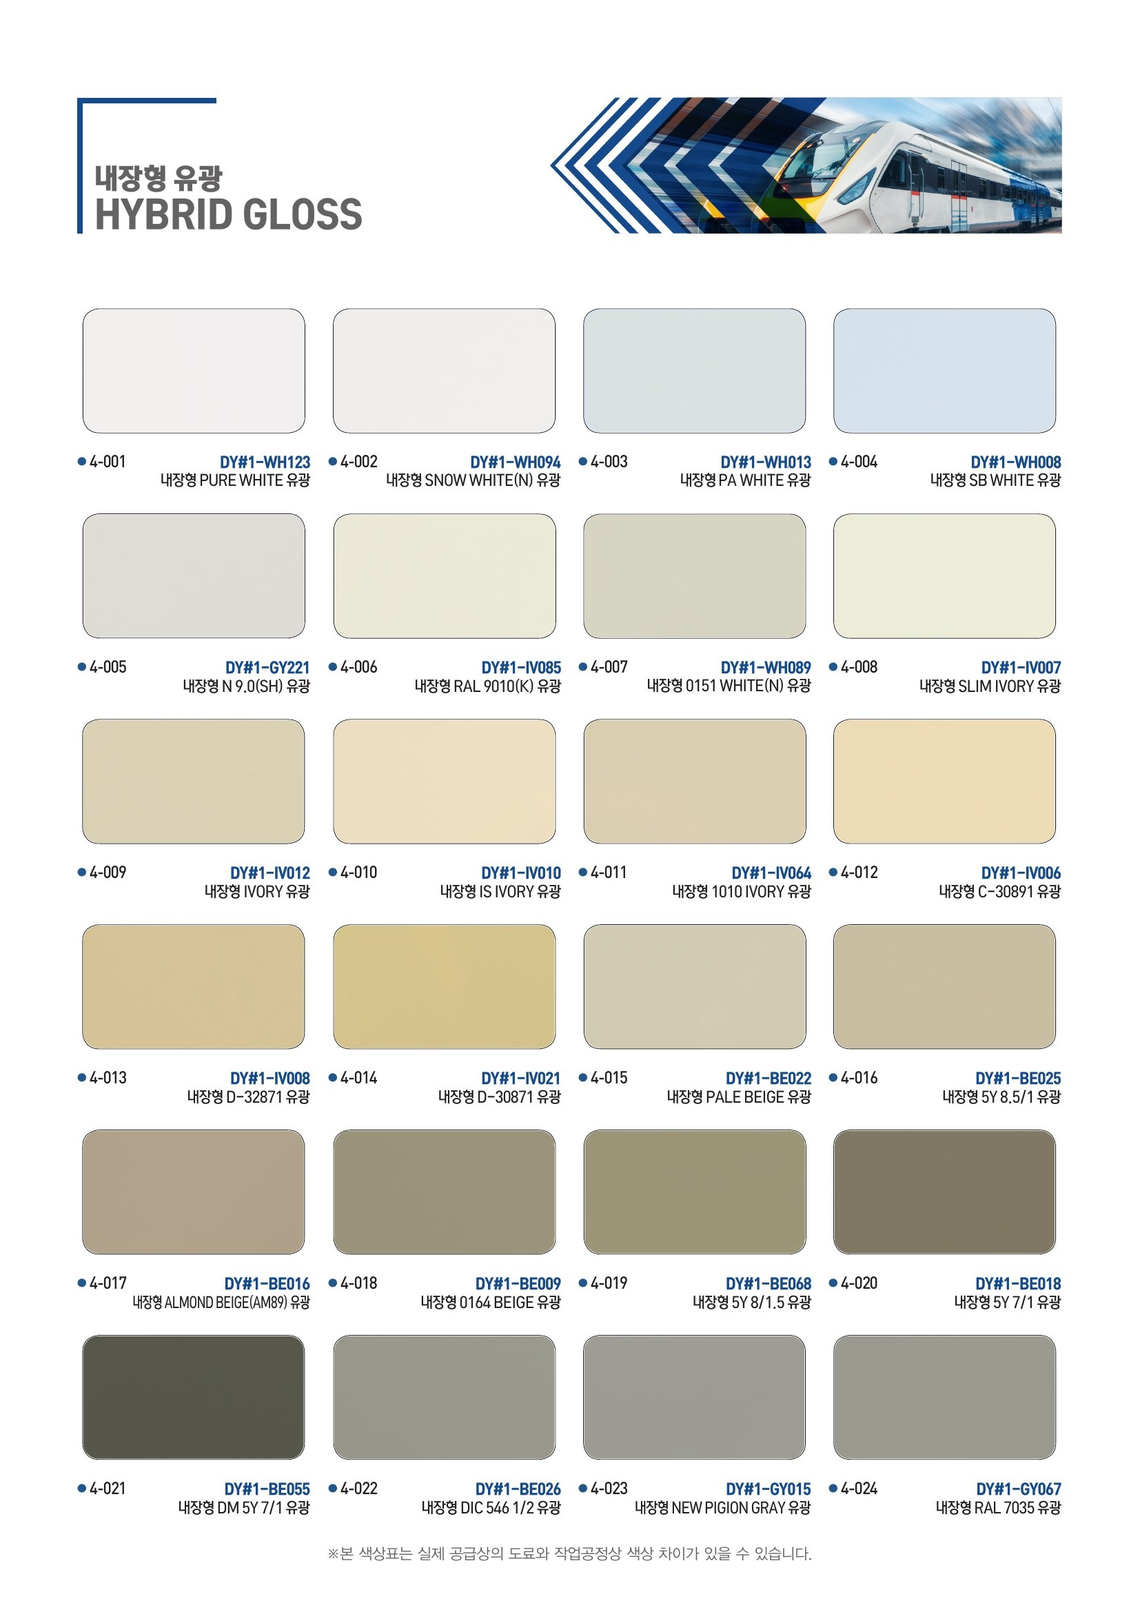
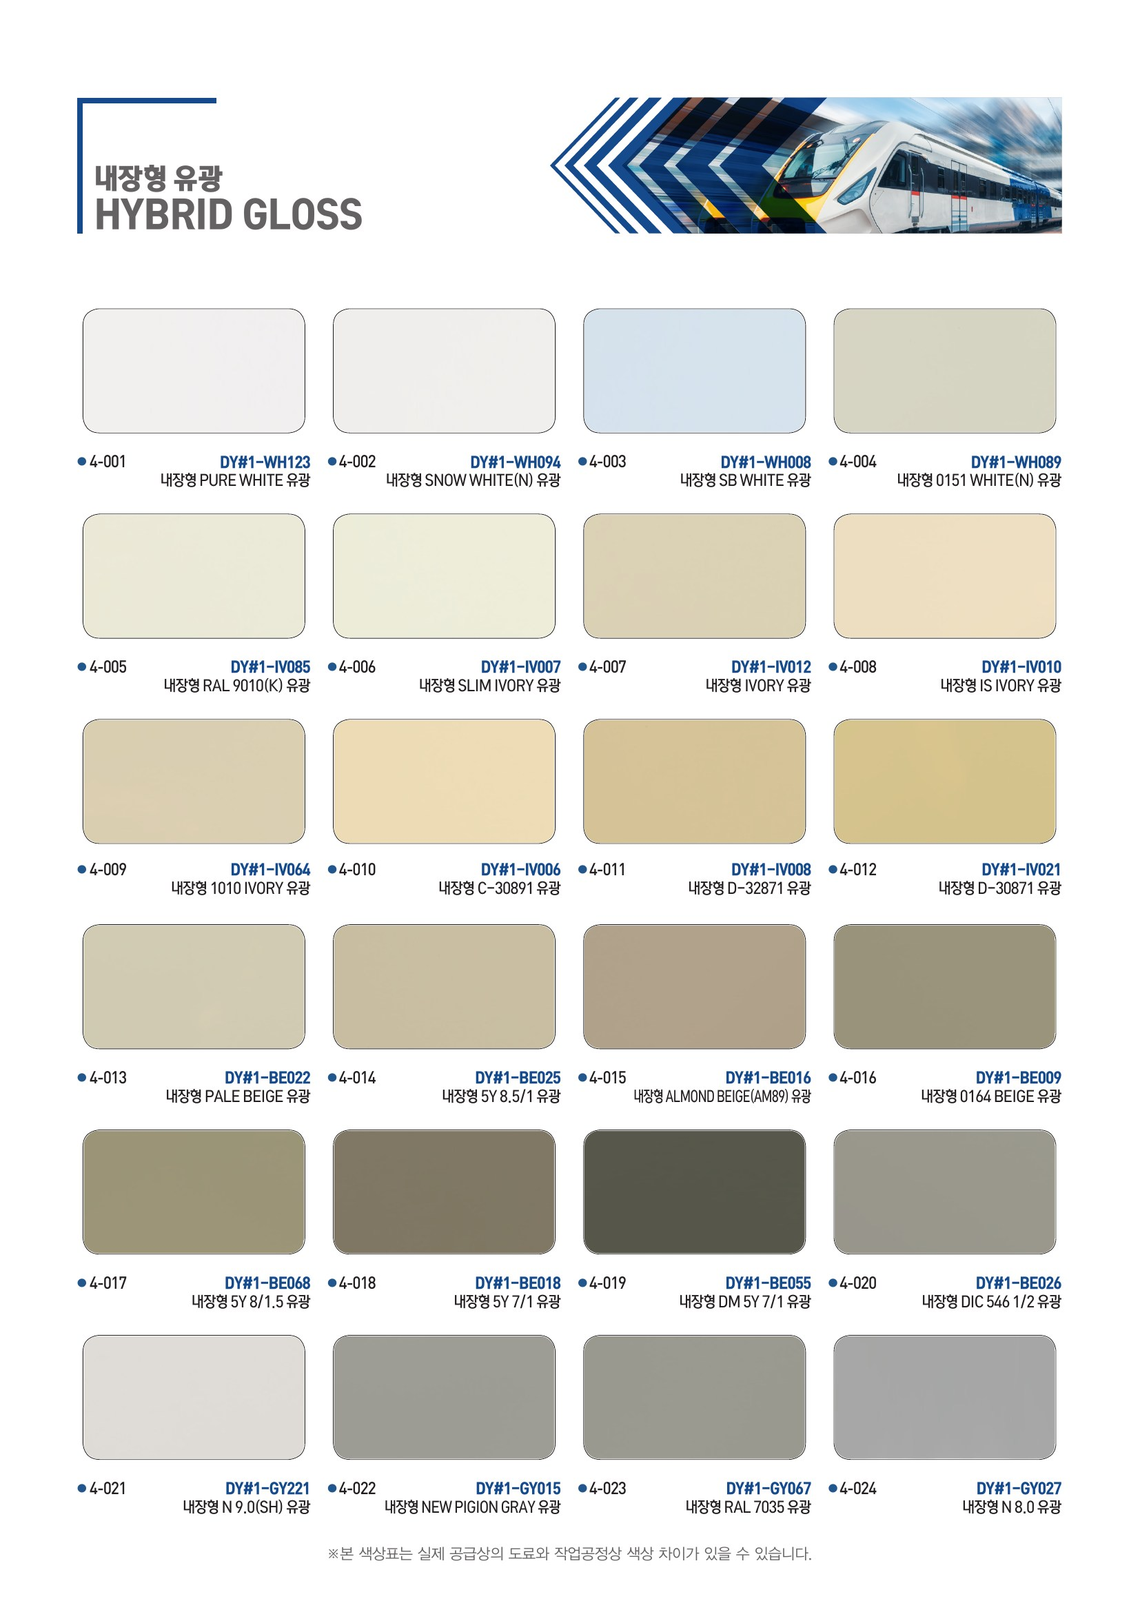
Restore the 183-color 색상표 data and color book pages
Revert the switch to the 170-color ver.3 layout (06d61f1, 5927d75): the
color data, color book pages 3-10 and the added WH013/GY007 swatches go
back to the 183-color version. The favicon change is kept.

diff --git a/js/colors.js b/js/colors.js
@@ -1,174 +1,187 @@
 window.COLOR_CHART = [
   [1, "DY#1-WH123", "내장형 PURE WHITE 유광", "#f2f0ef"],
   [2, "DY#1-WH094", "내장형 SNOW WHITE(N) 유광", "#f0efec"],
-  [3, "DY#1-WH013", "내장형 PA WHITE 유광", "#dae2e2"],
-  [4, "DY#1-WH008", "내장형 SB WHITE 유광", "#d6e3ed"],
-  [5, "DY#1-GY221", "내장형 N 9.0(SH) 유광", "#dedbd6"],
-  [6, "DY#1-IV085", "내장형 RAL 9010(K) 유광", "#eae9d7"],
-  [7, "DY#1-WH089", "내장형 0151 WHITE(N) 유광", "#d5d3c2"],
-  [8, "DY#1-IV007", "내장형 SLIM IVORY 유광", "#ededda"],
-  [9, "DY#1-IV012", "내장형 IVORY 유광", "#dad0b4"],
-  [10, "DY#1-IV010", "내장형 IS IVORY 유광", "#eedfc2"],
-  [11, "DY#1-IV064", "내장형 1010 IVORY 유광", "#dbcfb2"],
-  [12, "DY#1-IV006", "내장형 C-30891 유광", "#eddcb6"],
-  [13, "DY#1-IV008", "내장형 D-32871 유광", "#d5c398"],
-  [14, "DY#1-IV021", "내장형 D-30871 유광", "#d5c28c"],
-  [15, "DY#1-BE022", "내장형 PALE BEIGE 유광", "#d1cbb3"],
-  [16, "DY#1-BE025", "내장형 5Y 8.5/1 유광", "#c9bea2"],
-  [17, "DY#1-BE016", "내장형 ALMOND BEIGE(AM89) 유광", "#b1a28b"],
-  [18, "DY#1-BE009", "내장형 0164 BEIGE 유광", "#9b947c"],
-  [19, "DY#1-BE068", "내장형 5Y 8/1.5 유광", "#9c9577"],
-  [20, "DY#1-BE018", "내장형 5Y 7/1 유광", "#807864"],
-  [21, "DY#1-BE055", "내장형 DM 5Y 7/1 유광", "#56564b"],
-  [22, "DY#1-BE026", "내장형 DIC 546 1/2 유광", "#9a988d"],
-  [23, "DY#1-GY015", "내장형 NEW PIGION GRAY 유광", "#9d9c94"],
-  [24, "DY#1-GY067", "내장형 RAL 7035 유광", "#9a9a91"],
-  [25, "DY#1-GY027", "내장형 N 8.0 유광", "#a6a7a6"],
-  [26, "DY#1-GY026", "내장형 N 7.0 유광", "#85878b"],
-  [27, "DY#1-GY001", "내장형 C-80680 유광", "#6d7074"],
-  [28, "DY#1-GY089", "내장형 N 6.0 유광", "#7c7d7c"],
-  [29, "DY#1-GY031", "내장형 N 6.5 유광", "#7e8084"],
-  [30, "DY#1-GY069", "내장형 N 4.0 유광", "#4b545c"],
-  [31, "DY#1-GY070", "내장형 N 2.0 유광", "#3c434a"],
-  [32, "DY#1-GY033", "내장형 SEPIA GRAY 유광", "#32353a"],
-  [33, "DY#1-GY039", "내장형 HD GRAY 유광", "#586161"],
-  [34, "DY#1-GY007", "내장형 MO GRAY 유광", "#5c6159"],
-  [35, "DY#1-GY029", "내장형 7.5BG 6/1.5 유광", "#6c7c7b"],
-  [36, "DY#1-GY055", "내장형 MK GRAY 유광", "#5a7174"],
-  [37, "DY#1-BR005", "내장형 BROWN 유광", "#130302"],
-  [38, "DY#1-GN007", "내장형 2.5G 6/3 유광", "#4d7b5d"],
-  [39, "DY#1-GN008", "내장형 E-39684 유광", "#4a8e47"],
-  [40, "DY#1-GN010", "내장형 H22 GREEN 유광", "#00712c"],
-  [41, "DY#1-GN017", "내장형 F/GREEN 유광", "#004f22"],
-  [42, "DY#1-GN002", "내장형 KJ GREEN 유광", "#003715"],
-  [43, "DY#1-BL011", "내장형 L/BLUE 유광", "#0394c7"],
-  [44, "DY#1-BL012", "내장형 D-54506 유광", "#006fa1"],
-  [45, "DY#1-BL013", "내장형 SEA BLUE 유광", "#005a93"],
-  [46, "DY#1-BL001", "내장형 DY BLUE 유광", "#005c95"],
-  [47, "DY#1-BL007", "내장형 CT BLUE 유광", "#003381"],
-  [48, "DY#1-BL003", "내장형 KW BLUE 유광", "#01346d"],
-  [49, "DY#1-BL015", "내장형 H1051 BLUE 유광", "#001544"],
-  [50, "DY#1-BL014", "내장형 NEW BLUE 유광", "#091437"],
-  [51, "DY#1-PK001", "내장형 WT PINK 유광", "#ffd2ef"],
-  [52, "DY#1-YL006", "내장형 WT YELLOW 유광", "#f4c34c"],
-  [53, "DY#1-YL001", "내장형 PA 3758 유광", "#ce8500"],
-  [54, "DY#1-YL002", "내장형 LT YELLOW 유광", "#ca8f5c"],
-  [55, "DY#1-OR001", "내장형 SAKIYA ORANGE 유광", "#d45f44"],
-  [56, "DY#1-OR003", "내장형 IH ORANGE 유광", "#dd5a52"],
-  [57, "DY#1-RD004", "내장형 SH RED 유광", "#9f0e23"],
-  [58, "DY#1-RD001", "내장형 DY RED 유광", "#880014"],
-  [59, "DY#1-WH085", "내장형 9903 WHITE(N) 반광", "#f2f2ef"],
-  [60, "DY#1-WH058", "내장형 N 9.5 반광", "#fefaf2"],
-  [61, "DY#1-WH086", "내장형 IK WHITE(N) 반광", "#e1e2dc"],
+  [3, "DY#1-WH008", "내장형 SB WHITE 유광", "#d6e3ed"],
+  [4, "DY#1-WH089", "내장형 0151 WHITE(N) 유광", "#d5d3c2"],
+  [5, "DY#1-IV085", "내장형 RAL 9010(K) 유광", "#eae9d7"],
+  [6, "DY#1-IV007", "내장형 SLIM IVORY 유광", "#ededda"],
+  [7, "DY#1-IV012", "내장형 IVORY 유광", "#dad0b4"],
+  [8, "DY#1-IV010", "내장형 IS IVORY 유광", "#eedfc2"],
+  [9, "DY#1-IV064", "내장형 1010 IVORY 유광", "#dbcfb2"],
+  [10, "DY#1-IV006", "내장형 C-30891 유광", "#eddcb6"],
+  [11, "DY#1-IV008", "내장형 D-32871 유광", "#d5c398"],
+  [12, "DY#1-IV021", "내장형 D-30871 유광", "#d5c28c"],
+  [13, "DY#1-BE022", "내장형 PALE BEIGE 유광", "#d1cbb3"],
+  [14, "DY#1-BE025", "내장형 5Y 8.5/1 유광", "#c9bea2"],
+  [15, "DY#1-BE016", "내장형 ALMOND BEIGE(AM89) 유광", "#b1a28b"],
+  [16, "DY#1-BE009", "내장형 0164 BEIGE 유광", "#9b947c"],
+  [17, "DY#1-BE068", "내장형 5Y 8/1.5 유광", "#9c9577"],
+  [18, "DY#1-BE018", "내장형 5Y 7/1 유광", "#807864"],
+  [19, "DY#1-BE055", "내장형 DM 5Y 7/1 유광", "#56564b"],
+  [20, "DY#1-BE026", "내장형 DIC 546 1/2 유광", "#9a988d"],
+  [21, "DY#1-GY221", "내장형 N 9.0(SH) 유광", "#dedbd6"],
+  [22, "DY#1-GY015", "내장형 NEW PIGION GRAY 유광", "#9d9c94"],
+  [23, "DY#1-GY067", "내장형 RAL 7035 유광", "#9a9a91"],
+  [24, "DY#1-GY027", "내장형 N 8.0 유광", "#a6a7a6"],
+  [25, "DY#1-GY026", "내장형 N 7.0 유광", "#85878b"],
+  [26, "DY#1-GY001", "내장형 C-80680 유광", "#6d7074"],
+  [27, "DY#1-GY089", "내장형 N 6.0 유광", "#7c7d7c"],
+  [28, "DY#1-GY031", "내장형 N 6.5 유광", "#7e8084"],
+  [29, "DY#1-GY069", "내장형 N 4.0 유광", "#4b545c"],
+  [30, "DY#1-GY070", "내장형 N 2.0 유광", "#3c434a"],
+  [31, "DY#1-GY033", "내장형 SEPIA GRAY 유광", "#32353a"],
+  [32, "DY#1-GY039", "내장형 HD GRAY 유광", "#586161"],
+  [33, "DY#1-GY029", "내장형 7.5BG 6/1.5 유광", "#6c7c7b"],
+  [34, "DY#1-GY055", "내장형 MK GRAY 유광", "#5a7174"],
+  [35, "DY#1-BR005", "내장형 BROWN 유광", "#130302"],
+  [36, "DY#1-GN007", "내장형 2.5G 6/3 유광", "#4d7b5d"],
+  [37, "DY#1-GN008", "내장형 E-39684 유광", "#4a8e47"],
+  [38, "DY#1-GN010", "내장형 H-22 GREEN 유광", "#00712c"],
+  [39, "DY#1-GN017", "내장형 F/GREEN 유광", "#004f22"],
+  [40, "DY#1-GN002", "내장형 KJ GREEN 유광", "#003715"],
+  [41, "DY#1-BL011", "내장형 L/BLUE 유광", "#0394c7"],
+  [42, "DY#1-BL012", "내장형 D-54506 유광", "#006fa1"],
+  [43, "DY#1-BL013", "내장형 SEA BLUE 유광", "#005a93"],
+  [44, "DY#1-BL001", "내장형 DY BLUE 유광", "#005c95"],
+  [45, "DY#1-BL007", "내장형 CT BLUE 유광", "#003381"],
+  [46, "DY#1-BL003", "내장형 KW BLUE 유광", "#01346d"],
+  [47, "DY#1-BL015", "내장형 H1051 BLUE 유광", "#001544"],
+  [48, "DY#1-BL014", "내장형 NEW BLUE 유광", "#091437"],
+  [49, "DY#1-PK001", "내장형 WT PINK 유광", "#ffd2ef"],
+  [50, "DY#1-YL006", "내장형 WT YELLOW 유광", "#f4c34c"],
+  [51, "DY#1-YL001", "내장형 PA 3758 유광", "#ce8500"],
+  [52, "DY#1-YL002", "내장형 LT YELLOW 유광", "#ca8f5c"],
+  [53, "DY#1-OR001", "내장형 SAKIYA ORANGE 유광", "#d45f44"],
+  [54, "DY#1-OR003", "내장형 IH ORANGE 유광", "#dd5a52"],
+  [55, "DY#1-RD004", "내장형 SH RED 유광", "#9f0e23"],
+  [56, "DY#1-RD001", "내장형 DY RED 유광", "#880014"],
+  [57, "DY#1-WH085", "내장형 9903 WHITE(N) 반광", "#f2f2ef"],
+  [58, "DY#1-WH058", "내장형 N 9.5 반광", "#fefaf2"],
+  [59, "DY#1-WH086", "내장형 IK WHITE(N) 반광", "#e1e2dc"],
+  [60, "DY#1-WH003", "내장형 EK WHITE 반광", "#e9e5dc"],
+  [61, "DY#1-WH106", "내장형 C705A WHITE 반광", "#cdcac2"],
   [62, "DY#1-WH090", "내장형 80940(N) 무광", "#e2e1da"],
   [63, "DY#1-IV051", "내장형 RAL 9010 반광", "#f2eedd"],
-  [64, "DY#1-WH003", "내장형 EK WHITE 반광", "#e9e5dc"],
-  [65, "DY#1-GY011", "내장형 N 9.0 반광", "#dad8d1"],
-  [66, "DY#1-WH106", "내장형 C705A WHITE 반광", "#cdcac2"],
-  [67, "DY#1-IV011", "내장형 083 IVORY 반광", "#f6eede"],
-  [68, "DY#1-IV078", "내장형 IVORY 반광", "#eee2c8"],
-  [69, "DY#1-IV009", "내장형 D-32871 반광", "#dfd0a9"],
-  [70, "DY#1-BE023", "내장형 PALE BEIGE 반광", "#ccc2a1"],
-  [71, "DY#1-IV002", "내장형 C-30891 반광", "#f8e2cb"],
-  [72, "DY#1-IV068", "내장형 1010 IVORY 반광", "#e6d0b2"],
-  [73, "DY#1-IV005", "내장형 PA3873 반광", "#d1be95"],
-  [74, "DY#1-IV003", "내장형 PN IVORY 반광", "#aaa189"],
-  [75, "DY#1-BE050", "내장형 DIC 546 1/2 반광", "#d9d4c7"],
-  [76, "DY#1-GY032", "내장형 RAL 9002 반광", "#cac7bc"],
-  [77, "DY#1-BE117", "내장형 L/BEIGE 반광", "#b3aea5"],
-  [78, "DY#1-BE015", "내장형 D-80830 반광", "#b8b2ac"],
-  [79, "DY#1-BE019", "내장형 2.5Y 9/2 반광", "#f3dbb5"],
-  [80, "DY#1-BE021", "내장형 2.5Y 8/2 반광", "#c0ad88"],
-  [81, "DY#1-BE012", "내장형 D-34770 반광", "#b2a692"],
-  [82, "DY#1-BE046", "내장형 5D BEIGE 반광", "#a7a194"],
-  [83, "DY#1-BE092", "내장형 DJ NEW BEIGE 반광", "#9f8b6f"],
-  [84, "DY#1-BE020", "내장형 RAL 7032 반광", "#7b745c"],
-  [85, "DY#1-BE038", "내장형 DW 5Y 7/1 반광", "#656150"],
-  [86, "DY#1-BE001", "내장형 5Y 7/1 반광", "#5e5d4e"],
-  [87, "DY#1-BE069", "내장형 TAE 5Y 7/1 반광", "#6d6455"],
-  [88, "DY#1-GY212", "내장형 N 8.5 반광", "#d0cdca"],
-  [89, "DY#1-GY004", "내장형 RAL 7035 반광", "#a9a8a1"],
-  [90, "DY#1-GY023", "내장형 STONE GRAY 반광", "#949188"],
-  [91, "DY#1-GY005", "내장형 N 8.0 반광", "#989593"],
-  [92, "DY#1-GY050", "내장형 DSC GRAY 무광", "#83817c"],
-  [93, "DY#1-GY036", "내장형 N 7.5 반광", "#7e7c75"],
-  [94, "DY#1-GY012", "내장형 N 7.0 반광", "#757271"],
-  [95, "DY#1-GY008", "내장형 C-80680 반광", "#656363"],
-  [96, "DY#1-GY090", "내장형 N 6.5 반광", "#6e6a66"],
-  [97, "DY#1-GY030", "내장형 D-80580 반광", "#625e5c"],
-  [98, "DY#1-GY072", "내장형 RAL 7042 반광", "#8f8b86"],
-  [99, "DY#1-GY014", "내장형 N 5.5 반광", "#8d9292"],
-  [100, "DY#1-GY037", "내장형 N 5.0 반광", "#6e7073"],
-  [101, "DY#1-GY189", "내장형 N 4.0(P) 반광", "#484b4f"],
-  [102, "DY#1-GY122", "내장형 N 3.0 반광", "#3f454d"],
-  [103, "DY#1-GY034", "내장형 D/GRAY 반광", "#616769"],
-  [104, "DY#1-GY179", "내장형 N 2.0 반광", "#32383d"],
-  [105, "DY#1-BR021", "내장형 0035 BROWN 반광", "#776e67"],
-  [106, "DY#1-BR006", "내장형 0108 BROWN 반광", "#504f4d"],
-  [107, "DY#1-BR008", "내장형 D/BROWN 반광", "#2b2b2b"],
-  [108, "DY#1-GY002", "내장형 7.5BG 6/1.5 반광", "#575f5c"],
-  [109, "DY#1-GY052", "내장형 7.5BG 7/2 K 반광", "#6c8377"],
-  [110, "DY#1-GY073", "내장형 7.5BG 7/2(SD) 반광", "#62877f"],
-  [111, "DY#1-BL071", "내장형 TNT BLUE(N) 반광", "#004b97"],
-  [112, "DY#2-WH001", "외장형 PURE WHITE 유광", "#f0efee"],
-  [113, "DY#2-WH026", "외장형 033 WHITE 유광", "#e0eae9"],
-  [114, "DY#2-WH025", "외장형 BONE WHITE 무광", "#d8dbd8"],
-  [115, "DY#2-WH029", "외장형 EAGON WHITE 반광", "#b8b6a9"],
-  [116, "DY#2-BE037", "외장형 5Y 7/1 유광", "#8e897a"],
-  [117, "DY#2-BE002", "외장형 5Y 7/1 반광", "#6f6b5c"],
-  [118, "DY#2-GY014", "외장형 N 7.0 유광", "#8c9191"],
-  [119, "DY#2-GY044", "외장형 C-80680 유광", "#7f8482"],
-  [120, "DY#2-GY092", "외장형 C-80680 반광", "#838788"],
-  [121, "DY#2-GY001", "외장형 LPG GRAY 유광", "#585b60"],
-  [122, "DY#2-GY067", "외장형 N 4.0 유광", "#3a3939"],
-  [123, "DY#2-GY007", "외장형 SEPIA GRAY 유광", "#262626"],
-  [124, "DY#2-GY026", "외장형 기와 진회색 반광", "#292826"],
-  [125, "DY#2-BR009", "외장형 BROWN 유광", "#150504"],
-  [126, "DY#2-GN006", "외장형 WT GREEN 유광", "#468324"],
-  [127, "DY#2-GN022", "외장형 E-39684 유광", "#4a8849"],
-  [128, "DY#2-GN005", "외장형 D-40575 유광", "#3a7e30"],
-  [129, "DY#2-GN011", "외장형 KJ GREEN 유광", "#003a13"],
-  [130, "DY#2-BL003", "외장형 KW BLUE 유광", "#001f51"],
-  [131, "DY#2-YL005", "외장형 LT YELLOW(TF) 유광", "#ba6800"],
-  [132, "DY#2-RD001", "외장형 SB RED 유광", "#880004"],
-  [133, "DY#1-BK001", "내장형 BLACK 유광", "#010206"],
-  [134, "DY#1-BK002", "내장형 BLACK 반광", "#20242b"],
-  [135, "DY#1-BK014", "내장형 L/BLACK 반광", "#0b0f16"],
-  [136, "DY#1-BK003", "내장형 BLACK 무광", "#010101"],
-  [137, "DY#2-BK007", "외장형 BLACK 유광", "#010101"],
-  [138, "DY#2-BK003", "외장형 BLACK 반광", "#04080c"],
-  [139, "DY#2-BK015", "외장형 HS BLACK 무광", "#02050a"],
-  [140, "DY#2-BK001", "외장형 BLACK 무광", "#020308"],
-  [141, "DY#5-GD007", "내장형 M/T GOLD 유광", "#7e541b"],
-  [142, "DY#5-SI043", "외장형 SUPER SILVER 유광", "#757673"],
-  [143, "DY#5-SI004", "외장형 0162 SILVER 유광", "#6c6e70"],
-  [144, "DY#5-SI007", "내장형 내쇼날 SILVER 유광", "#696a6a"],
-  [145, "DY#5-SI003", "내장형 M/T SILVER 유광", "#7b7677"],
-  [146, "DY#5-SI010", "내장형 MJ SILVER 반광", "#5e5f5f"],
-  [147, "DY#5-SI046", "내장형 R/SILVER 반광", "#7f807c"],
-  [148, "DY#5-SI002", "내장형 M/T DB GRAY 반광", "#40413b"],
-  [149, "DY#5-SI014", "내장형 M/T T/X SILVER 반광", "#999591"],
-  [150, "DY#6-BE001", "내장형 함마톤 BEIGE 유광", "#9b9c8f"],
-  [151, "DY#6-BE003", "내장형 함마톤 L/BEIGE 유광", "#9d9e8f"],
-  [152, "DY#6-GY002", "내장형 함마톤 EY019K 유광", "#66696a"],
-  [153, "DY#6-SI002", "내장형 함마톤 SILVER 유광", "#64666b"],
-  [154, "DY#6-GD001", "외장형 함마톤 COPPER 유광", "#2f292b"],
-  [155, "DY#3-WH003", "내장형 S/T WHITE 반광", "#c7c2c0"],
-  [156, "DY#3-IV014", "내장형 S/T IVORY 유광", "#c0b5a7"],
-  [157, "DY#3-BE007", "내장형 S/T EL441K 반광", "#b1afa8"],
-  [158, "DY#3-GY006", "내장형 S/T RAL 7035 반광", "#b5bbba"],
-  [159, "DY#3-GY025", "내장형 S/T N 4.0 반광", "#51575e"],
-  [160, "DY#3-GY008", "내장형 S/T 408K GRAY 반광", "#40464c"],
-  [161, "DY#3-BK008", "내장형 S/T BK 024 반광", "#2a2e31"],
-  [162, "DY#3-BK001", "내장형 S/T BLACK 반광", "#090a0c"],
-  [163, "DY#3-BR003", "외장형 S/T EM120K 반광", "#190d09"],
-  [164, "DY#4-WH002", "내장형 T/X DW WHITE 반광", "#e7e6e1"],
-  [165, "DY#4-BR005", "내장형 T/X 342K 국방색 무광", "#70665a"],
-  [166, "DY#4-BR003", "내장형 T/X 0108 BROWN 반광", "#655c54"],
-  [167, "DY#4-GY003", "내장형 T/X HD GRAY 반광", "#616561"],
-  [168, "DY#4-GY019", "내장형 T/X D/GRAY 반광", "#4c5151"],
+  [64, "DY#1-IV011", "내장형 083 IVORY 반광", "#f6eede"],
+  [65, "DY#1-IV078", "내장형 IVORY 반광", "#eee2c8"],
+  [66, "DY#1-IV009", "내장형 D-32871 반광", "#dfd0a9"],
+  [67, "DY#1-IV002", "내장형 C-30891 반광", "#f8e2cb"],
+  [68, "DY#1-IV068", "내장형 1010 IVORY 반광", "#e6d0b2"],
+  [69, "DY#1-IV005", "내장형 PA3873 반광", "#d1be95"],
+  [70, "DY#1-IV003", "내장형 PN IVORY 반광", "#aaa189"],
+  [71, "DY#1-BE023", "내장형 PALE BEIGE 반광", "#ccc2a1"],
+  [72, "DY#1-BE050", "내장형 DIC 546 1/2 반광", "#d9d4c7"],
+  [73, "DY#1-BE117", "내장형 L/BEIGE 반광", "#b3aea5"],
+  [74, "DY#1-BE015", "내장형 D-80830 반광", "#b8b2ac"],
+  [75, "DY#1-BE019", "내장형 2.5Y 9/2 반광", "#f3dbb5"],
+  [76, "DY#1-BE021", "내장형 2.5Y 8/2 반광", "#c0ad88"],
+  [77, "DY#1-BE012", "내장형 D-34770 반광", "#b2a692"],
+  [78, "DY#1-BE046", "내장형 5D BEIGE 반광", "#a7a194"],
+  [79, "DY#1-BE092", "내장형 DJ NEW BEIGE 반광", "#9f8b6f"],
+  [80, "DY#1-BE020", "내장형 RAL 7032 반광", "#7b745c"],
+  [81, "DY#1-BE038", "내장형 DW 5Y 7/1 반광", "#656150"],
+  [82, "DY#1-BE001", "내장형 5Y 7/1 반광", "#5e5d4e"],
+  [83, "DY#1-BE069", "내장형 TAE 5Y 7/1 반광", "#6d6455"],
+  [84, "DY#1-BE224", "내장형 5Y 7/1(STD) 반광", "#b2b3ab"],
+  [85, "DY#1-GY011", "내장형 N 9.0 반광", "#dad8d1"],
+  [86, "DY#1-GY212", "내장형 N 8.5 반광", "#d0cdca"],
+  [87, "DY#1-GY032", "내장형 RAL 9002 반광", "#cac7bc"],
+  [88, "DY#1-GY004", "내장형 RAL 7035 반광", "#a9a8a1"],
+  [89, "DY#1-GY023", "내장형 STONE GRAY 반광", "#949188"],
+  [90, "DY#1-GY005", "내장형 N 8.0 반광", "#989593"],
+  [91, "DY#1-GY050", "내장형 DSC GRAY 무광", "#83817c"],
+  [92, "DY#1-GY036", "내장형 N 7.5 반광", "#7e7c75"],
+  [93, "DY#1-GY012", "내장형 N 7.0 반광", "#757271"],
+  [94, "DY#1-GY008", "내장형 C-80680 반광", "#656363"],
+  [95, "DY#1-GY090", "내장형 N 6.5 반광", "#6e6a66"],
+  [96, "DY#1-GY030", "내장형 D-80580 반광", "#625e5c"],
+  [97, "DY#1-GY072", "내장형 RAL 7042 반광", "#8f8b86"],
+  [98, "DY#1-GY014", "내장형 N 5.5 반광", "#8d9292"],
+  [99, "DY#1-GY037", "내장형 N 5.0 반광", "#6e7073"],
+  [100, "DY#1-GY189", "내장형 N 4.0(P) 반광", "#484b4f"],
+  [101, "DY#1-GY122", "내장형 N 3.0 반광", "#3f454d"],
+  [102, "DY#1-GY034", "내장형 D/GRAY 반광", "#616769"],
+  [103, "DY#1-GY179", "내장형 N 2.0 반광", "#32383d"],
+  [104, "DY#1-BR021", "내장형 0035 BROWN 반광", "#776e67"],
+  [105, "DY#1-BR006", "내장형 0108 BROWN 반광", "#504f4d"],
+  [106, "DY#1-BR008", "내장형 D/BROWN 반광", "#2b2b2b"],
+  [107, "DY#1-GY002", "내장형 7.5BG 6/1.5 반광", "#575f5c"],
+  [108, "DY#1-GY052", "내장형 7.5BG 7/2 K 반광", "#6c8377"],
+  [109, "DY#1-GY073", "내장형 7.5BG 7/2(SD) 반광", "#62877f"],
+  [110, "DY#1-BL071", "내장형 TNT BLUE(N) 반광", "#004b97"],
+  [111, "DY#2-OR017", "외장형 0379 오렌지 유광", "#db5126"],
+  [112, "DY#2-RD001", "외장형 SB RED 유광", "#880004"],
+  [113, "DY#2-WH001", "외장형 PURE WHITE 유광", "#f0efee"],
+  [114, "DY#2-WH026", "외장형 033 WHITE 유광", "#e0eae9"],
+  [115, "DY#2-WH003", "외장형 미광 WHITE 반광", "#eeece3"],
+  [116, "DY#2-WH025", "외장형 BONE WHITE 무광", "#d8dbd8"],
+  [117, "DY#2-WH029", "외장형 EAGON WHITE 반광", "#b8b6a9"],
+  [118, "DY#2-BE037", "외장형 5Y 7/1 유광", "#8e897a"],
+  [119, "DY#2-BE002", "외장형 5Y 7/1 반광", "#6f6b5c"],
+  [120, "DY#2-GY014", "외장형 N 7.0 유광", "#8c9191"],
+  [121, "DY#2-GY044", "외장형 C-80680 유광", "#7f8482"],
+  [122, "DY#2-GY092", "외장형 C-80680 반광", "#838788"],
+  [123, "DY#2-GY001", "외장형 LPG GRAY 유광", "#585b60"],
+  [124, "DY#2-GY067", "외장형 N 4.0 유광", "#3a3939"],
+  [125, "DY#2-GY007", "외장형 SEPIA GRAY 유광", "#262626"],
+  [126, "DY#2-GY195", "외장형 F3115 GRAY(HD) 반광", "#8c8d8c"],
+  [127, "DY#2-GY026", "외장형 기와 진회색 반광", "#292826"],
+  [128, "DY#2-BR009", "외장형 BROWN 유광", "#150504"],
+  [129, "DY#2-GN006", "외장형 WT GREEN 유광", "#468324"],
+  [130, "DY#2-GN022", "외장형 E-39684 유광", "#4a8849"],
+  [131, "DY#2-GN005", "외장형 D-40575 유광", "#3a7e30"],
+  [132, "DY#2-GN011", "외장형 KJ GREEN 유광", "#003a13"],
+  [133, "DY#2-BL003", "외장형 KW BLUE 유광", "#001f51"],
+  [134, "DY#2-YL005", "외장형 LT YELLOW(TF) 유광", "#ba6800"],
+  [135, "DY#2-YL008", "외장형 PA-3758 유광", "#f0b61a"],
+  [136, "DY#2-YL019", "외장형 DIC 164 유광", "#f0c936"],
+  [137, "DY#1-BK001", "내장형 BLACK 유광", "#010206"],
+  [138, "DY#1-BK002", "내장형 BLACK 반광", "#20242b"],
+  [139, "DY#1-BK014", "내장형 L/BLACK 반광", "#0b0f16"],
+  [140, "DY#1-BK003", "내장형 BLACK 무광", "#010101"],
+  [141, "DY#2-BK007", "외장형 BLACK 유광", "#010101"],
+  [142, "DY#2-BK003", "외장형 BLACK 반광", "#04080c"],
+  [143, "DY#2-BK015", "외장형 HS BLACK 무광", "#02050a"],
+  [144, "DY#2-BK001", "외장형 BLACK 무광", "#020308"],
+  [145, "DY#2-CL001", "외장형 CREAR 유광", "#efede0"],
+  [146, "DY#5-GD007", "내장형 M/T GOLD 유광", "#7e541b"],
+  [147, "DY#5-SI043", "외장형 SUPER SILVER 유광", "#757673"],
+  [148, "DY#5-SI004", "외장형 0162 SILVER 유광", "#6c6e70"],
+  [149, "DY#5-SI007", "내장형 내쇼날 SILVER 유광", "#696a6a"],
+  [150, "DY#5-SI003", "내장형 M/T SILVER 유광", "#7b7677"],
+  [151, "DY#5-SI010", "내장형 MJ SILVER 반광", "#5e5f5f"],
+  [152, "DY#5-SI046", "내장형 R/SILVER 반광", "#7f807c"],
+  [153, "DY#5-SI002", "내장형 M/T DB GRAY 반광", "#40413b"],
+  [154, "DY#5-SI014", "내장형 M/T T/X SILVER 반광", "#999591"],
+  [155, "DY#6-BE001", "내장형 함마톤 BEIGE 유광", "#9b9c8f"],
+  [156, "DY#6-BE003", "내장형 함마톤 L/BEIGE 유광", "#9d9e8f"],
+  [157, "DY#6-GY002", "내장형 함마톤 EY019K 유광", "#66696a"],
+  [158, "DY#6-GY021", "외장형 함마톤 GY001 GRAY 유광", "#7f8286"],
+  [159, "DY#6-GY012", "외장형 함마톤 N4.0 유광", "#666869"],
+  [160, "DY#6-SI002", "내장형 함마톤 SILVER 유광", "#64666b"],
+  [161, "DY#6-GD001", "외장형 함마톤 COPPER 유광", "#2f292b"],
+  [162, "DY#4-WH002", "내장형 T/X DW WHITE 반광", "#e7e6e1"],
+  [163, "DY#4-WH010", "내장형 T/X HS WHITE 반광", "#e7e3dc"],
+  [164, "DY#4-BR005", "내장형 T/X 342K 국방색무광", "#70665a"],
+  [165, "DY#4-BR003", "내장형 T/X 0108 BROWN 반광", "#655c54"],
+  [166, "DY#4-GY003", "내장형 T/X HD GRAY 반광", "#616561"],
+  [167, "DY#4-GY019", "내장형 T/X D/GRAY 반광", "#4c5151"],
+  [168, "DY#4-GY044", "내장형 T/X 365 GRAY 반광", "#6e706b"],
   [169, "DY#4-BK001", "내장형 T/X BLACK 반광", "#1c1b1d"],
-  [170, "DY#4-BK002", "내장형 T/X BLACK 무광", "#161618"]
+  [170, "DY#4-BK009", "내장형 T/X TW BLACK 반광", "#222222"],
+  [171, "DY#4-BK002", "내장형 T/X BLACK 무광", "#161618"],
+  [172, "DY#4-BK003", "외장재 T/X BLACK 반광", "#1e1f1e"],
+  [173, "DY#3-WH003", "내장형 S/T WHITE 반광", "#c7c2c0"],
+  [174, "DY#3-IV014", "내장형 S/T IVORY 유광", "#c0b5a7"],
+  [175, "DY#3-BE007", "내장형 S/T EL441K 반광", "#b1afa8"],
+  [176, "DY#3-GY062", "내장형 S/T 7.5BG 7/2 (SHI) 반광", "#abb6be"],
+  [177, "DY#3-GY006", "내장형 S/T RAL 7035 반광", "#b5bbba"],
+  [178, "DY#3-BR003", "외장형 S/T EM120K 반광", "#190d09"],
+  [179, "DY#3-GY025", "내장형 S/T N 4.0 반광", "#51575e"],
+  [180, "DY#3-GY008", "내장형 S/T 408K GRAY 반광", "#40464c"],
+  [181, "DY#3-BK008", "내장형 S/T BK 024 반광", "#2a2e31"],
+  [182, "DY#3-BK011", "내장형 S/T 072 BLACK 반광", "#1f2020"],
+  [183, "DY#3-BK001", "내장형 S/T BLACK 반광", "#090a0c"]
 ];
 
 window.COLOR_NAMES = {
